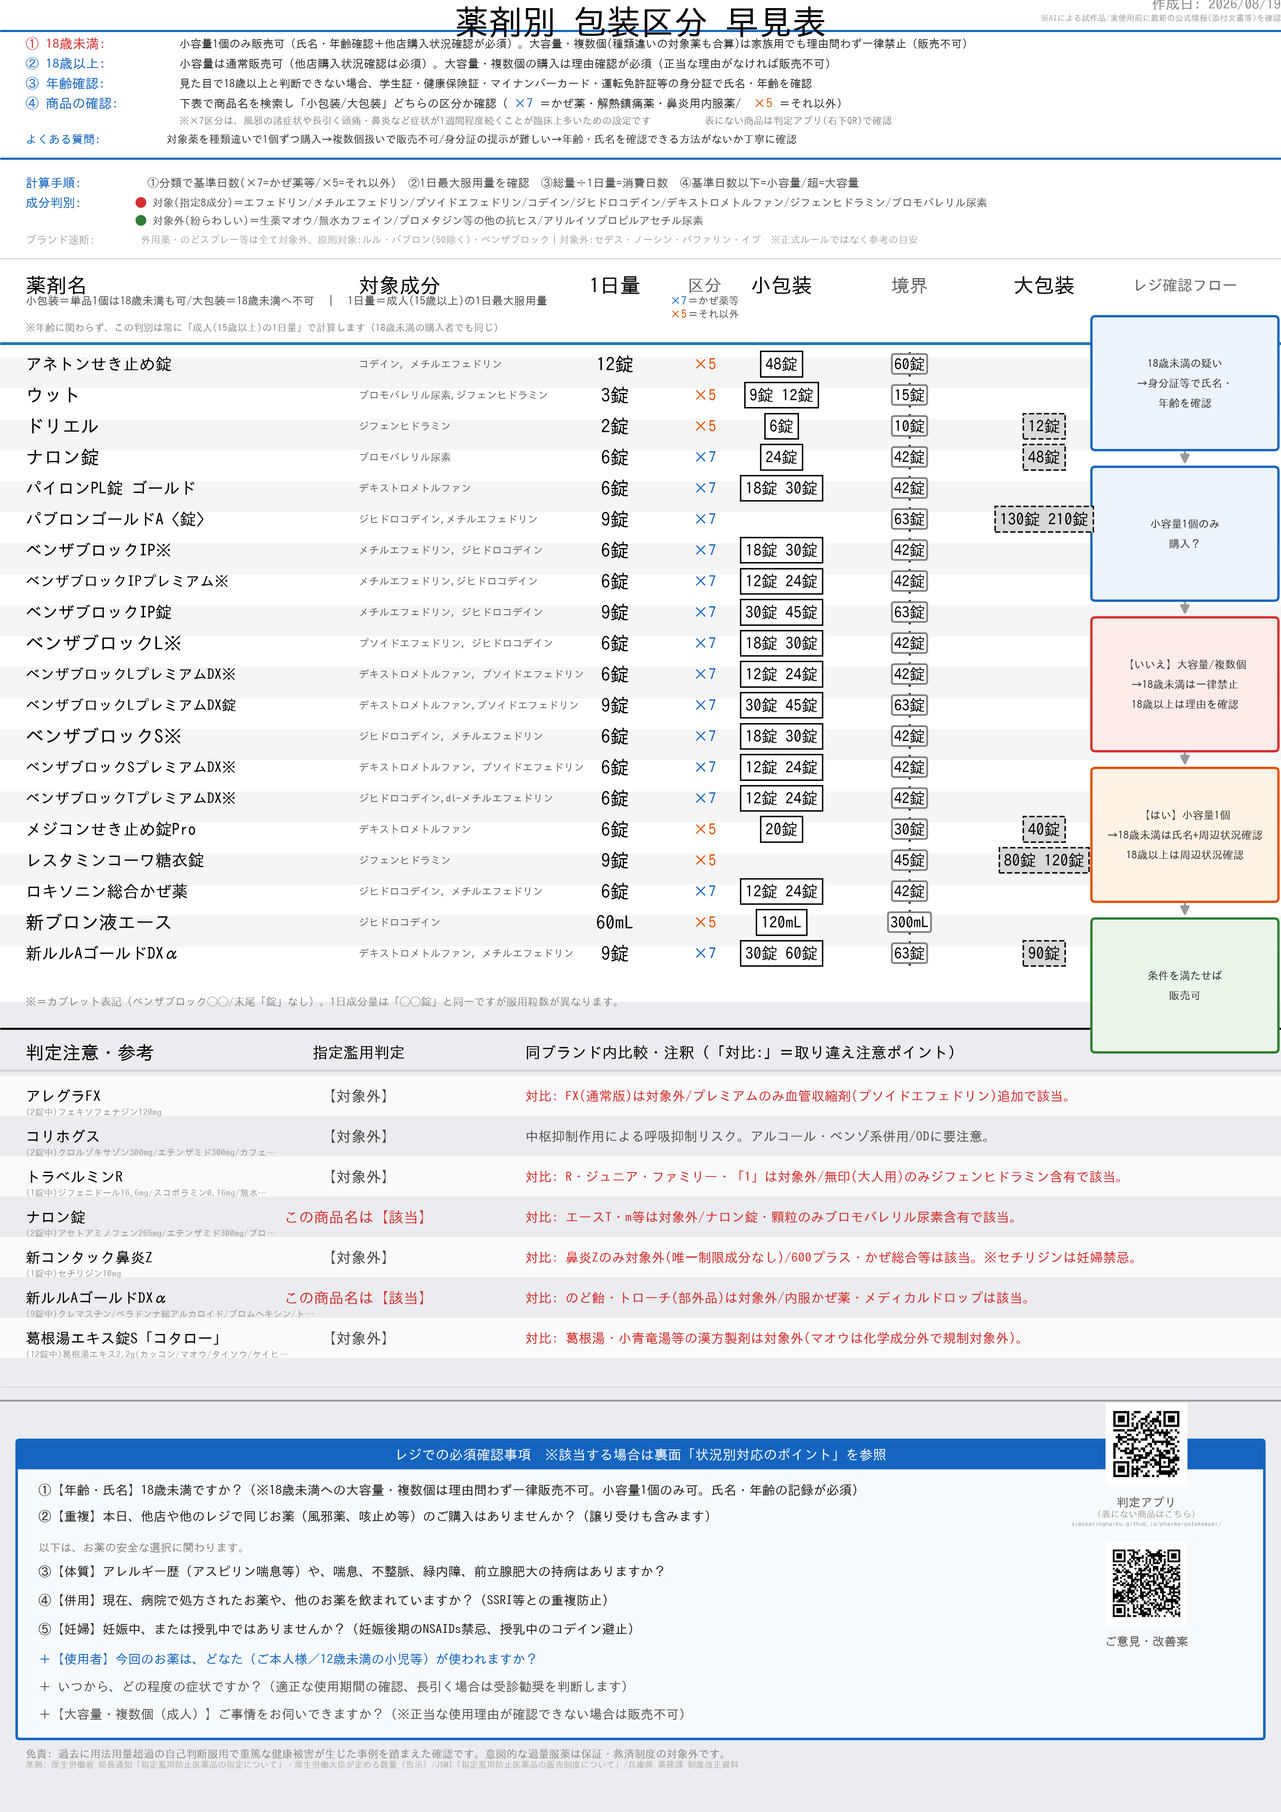
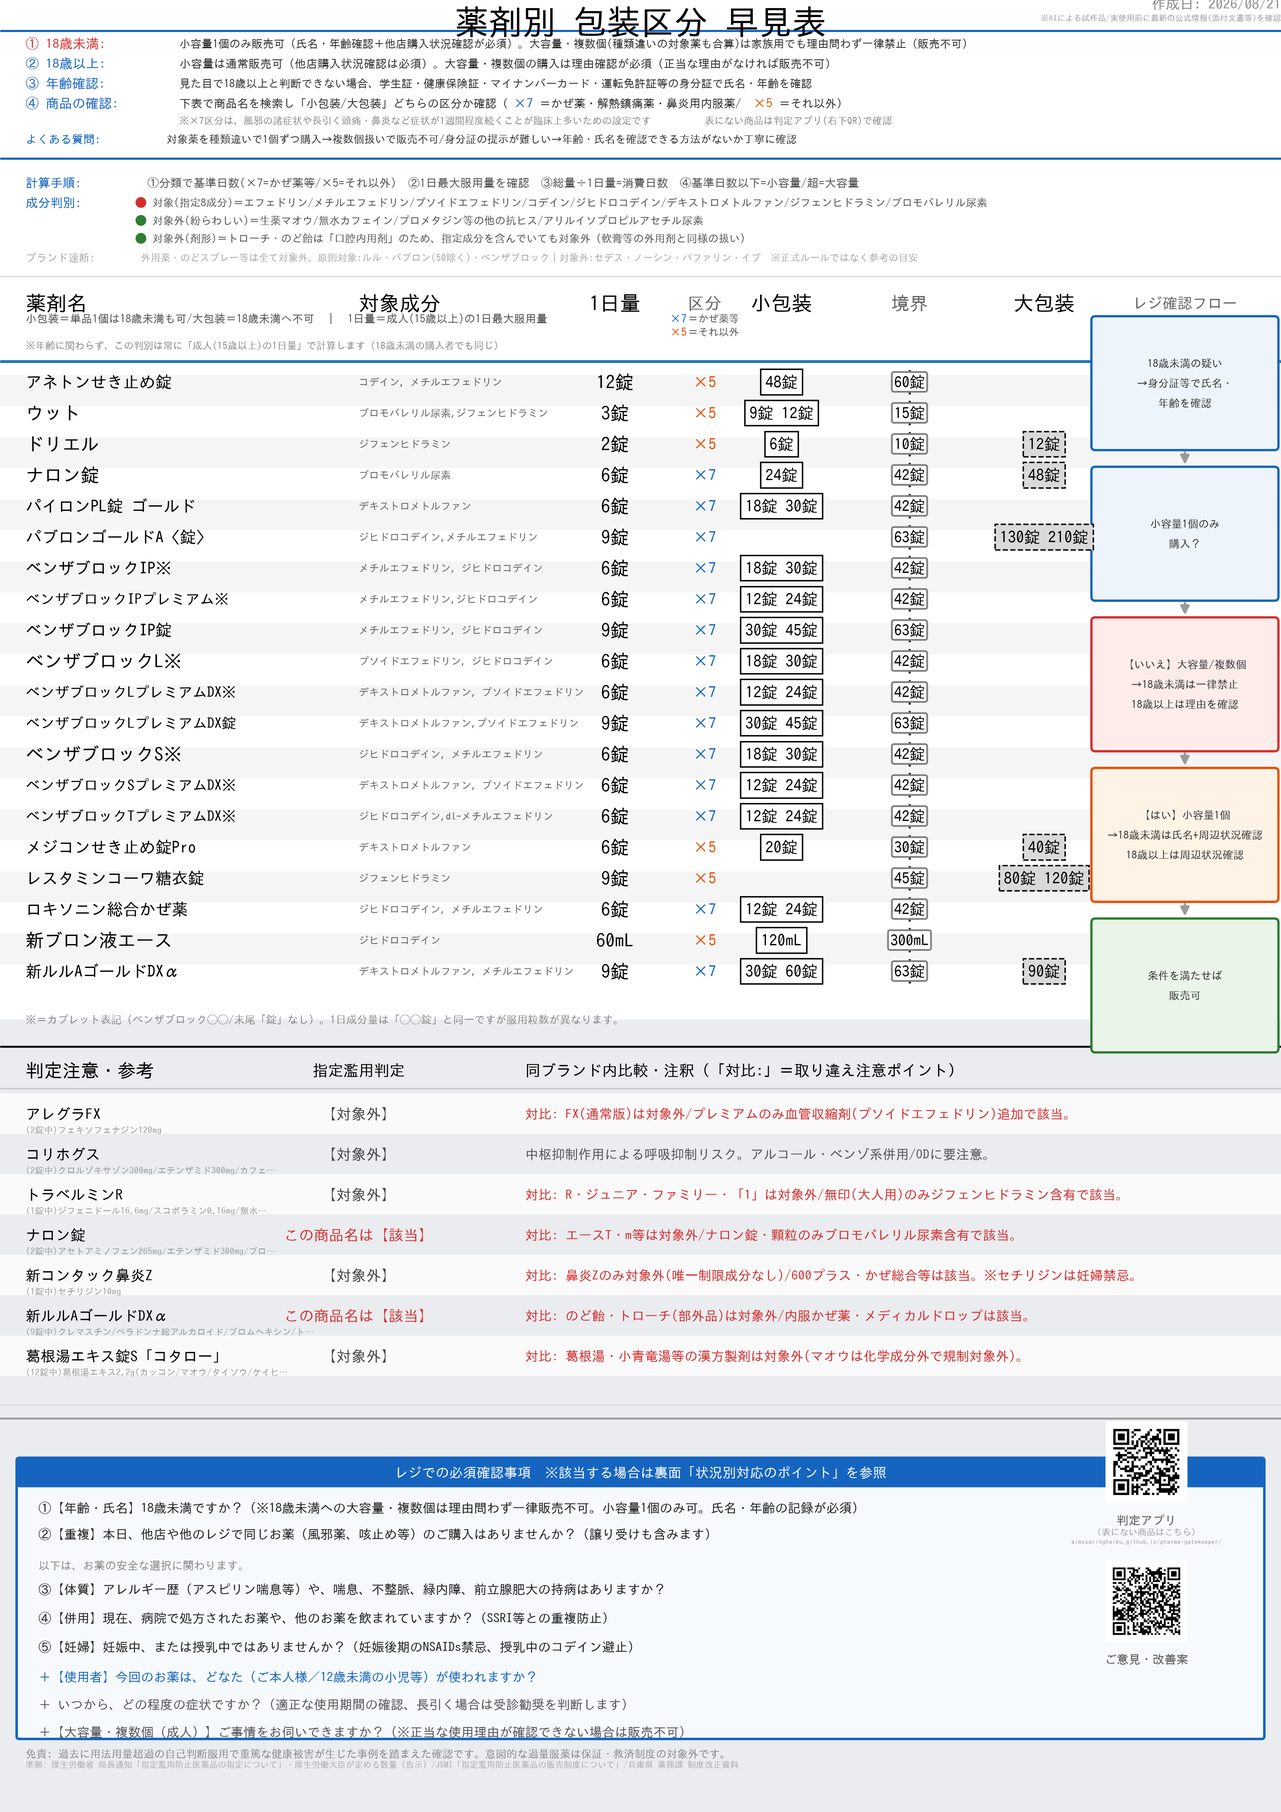
重大: トローチ・のど飴は口腔内用剤のため指定濫用対象外と全ファイルで統一
判定アプリ(index.html)および元データ(data.csv, data_updated.csv,
package_verification.csv, Dify連携.csv)に「トローチは対象、のどスプレーは
対象外」という誤った記述が残っていた。実際はトローチ・のど飴ともに
「口腔内用剤」に分類され、指定成分を含んでいても対象外。

- index.html: 大原則の説明文に一文追加、ブランド類推・ベンザブロック商品note
  内の誤った記述を修正
- data.csv / data_updated.csv / package_verification.csv / Dify連携.csv:
  同様の誤記述を修正（提出用_指定濫用マスタ.csvは既に修正済みだったため
  それに合わせて統一）
- vpc_v11_front.py: 成分判別セクションに「対象外(剤形)」の一文を追加
- vpc_v11_back.py: ※外用薬・アンナカのケースに同様の一文を追加

diff --git a/index.html b/index.html
@@ -579,12 +579,13 @@
                 <div class="manual-content">
                     <strong>■ 大原則</strong><br>
                     ・<strong>外用薬（のどスプレー、湿布、軟膏等）はすべて濫用防止の対象外</strong>です。<br>
+                    ・<strong>トローチ・のど飴は「口腔内用剤」に分類され、指定成分（デキストロメトルファン等）を含んでいても濫用防止の対象外</strong>です。<br>
                     <span
                         style="font-size:12.5px; color:#555;">※補足：抗ヒスタミン薬における指定成分の該当は「ジフェンヒドラミンのみ」です。((なお、今回の制度とは少し話がそれますが、比較的最近の「内服の第二世代抗ﾋｽ」は受診遅延回避･正確な診断の必要から「皮膚適応を持ちません」が、少し前の時期に適応取得した「ムヒAZ錠」などは､第二世代抗ﾋｽの中では珍しく皮膚適応を持ちます｡))</span><br><br>
 
                     <strong>■ ブランドからの類推（代表例）</strong><br>
                     ・<span class="tag-red">原則すべて対象：</span>
-                    ルル、パブロン、ベンザブロック（※パブロンの大人向け（15才以上）の風邪薬・せき止め薬において、指定乱用成分非含有は麦門冬湯ﾍﾞｰｽの「パブロン50」のみ/ベンザブロックはYASUMO･ﾄﾛｰﾁも対象､対象外はのどｽﾌﾟﾚｰ）<br>
+                    ルル、パブロン、ベンザブロック（※パブロンの大人向け（15才以上）の風邪薬・せき止め薬において、指定乱用成分非含有は麦門冬湯ﾍﾞｰｽの「パブロン50」のみ/ベンザブロックはYASUMOも対象、ﾄﾛｰﾁは口腔内用剤のため対象外（のどｽﾌﾟﾚｰも対象外））<br>
                     ・<span class="tag-red">対象：</span> エースがつかないナロン、パイロンPL錠ゴールド、パイロン溶かしてのむかぜ薬<br>
                     ・<span class="tag-green">すべて対象外：</span> セデス、ノーシン、バファリン、イブ<br><br>
 
@@ -963,7 +964,7 @@
     "categoryLimit": 7,
     "kubun": "〇",
     "overview": "イブプロフェンの解熱鎮痛作用により、かぜによる発熱・悪寒・頭痛・のどの痛み・関節の痛みを緩和します。6種の成分がバランスよくはたらき、かぜの様々な症状を緩和。柑橘類などに含まれるビタミンPの一種であるヘスペリジンを配合。のみやすい小型の白色～帯黄白色のカプレットタイプの錠剤です。",
-    "note": "ベンザブロック命名規則：カプレット=6T/日、円形錠(名称最後に”錠”)=9T/日、全シリーズで統一(「無印」「プレミアムDX」共通)\n        「L・IP・S」/「L・IP・S」錠/「L・IP・S・T」プレミアムDX/「L・IP・S・T」プレミアムDX錠\n　　        「YASUMO/せき止め液1回量のみ切りタイプ/せき止め錠/トローチ」も指定濫用該当(ﾄﾛｰﾁは対象､のどｽﾌﾟﾚｰは対象外)",
+    "note": "ベンザブロック命名規則：カプレット=6T/日、円形錠(名称最後に”錠”)=9T/日、全シリーズで統一(「無印」「プレミアムDX」共通)\n        「L・IP・S」/「L・IP・S」錠/「L・IP・S・T」プレミアムDX/「L・IP・S・T」プレミアムDX錠\n　　        「YASUMO/せき止め液1回量のみ切りタイプ/せき止め錠」も指定濫用該当(ﾄﾛｰﾁ・のど飴は口腔内用剤のため対象外､のどｽﾌﾟﾚｰも対象外)",
     "alternative": "【現場_代替薬提案】<br>ベンザブロックIPは、イブプロフェン、抗ヒスタミン薬、鎮咳去痰薬、交感神経刺激薬など複数の成分を配合しており、様々な症状に対応できますが、その分、特定の患者層には使用が推奨されません。<br>・<b>妊婦・授乳婦</b>：イブプロフェン、クロルフェニラミン、dl-メチルエフェドリン、ジヒドロコデインは妊娠中・授乳中に推奨されません。解熱鎮痛にはアセトアミノフェン単剤、鼻症状には点鼻薬や比較的安全とされる第二世代抗ヒスタミン薬（医師・薬剤師に要相談）、咳にははちみつや麦芽糖を検討してください。<br>・<b>運転者</b>：クロルフェニラミンとジヒドロコデインによる眠気のリスクが高いため、運転・機械操作をされる方には、眠気を催さない成分（例：解熱鎮痛はイブプロフェン単剤、鼻症状はプソイドエフェドリンを含まない点鼻薬や第二世代抗ヒスタミン薬）への切り替えを提案してください。<br>・<b>基礎疾患（高血圧、心疾患、糖尿病、緑内障、前立腺肥大症、消化性潰瘍など）</b>：dl-メチルエフェドリン、イブプロフェン、クロルフェニラミン、ジヒドロコデインはこれらの疾患を悪化させる可能性があります。基礎疾患を持つ患者には、症状に応じた単一成分製剤や、より安全性の高い代替薬（例：解熱鎮痛はアセトアミノフェン、鼻症状は点鼻薬）を検討し、必要に応じて医師への受診勧奨を行ってください。",
     "dosage_real": "成人1日最大服用量: 6",
     "現場_運転目安補足": "【現場_服薬指導エビデンス】<br>・<b>妊婦・授乳婦</b>：<br> ・<b>イブプロフェン</b>：妊娠後期（28週以降）は胎児の動脈管収縮・閉鎖、腎機能障害のリスクがあるため禁忌です。妊娠初期・中期は治療上の有益性が危険性を上回る場合のみ慎重に検討されます。成育医療センターの評価では、妊娠初期・中期はL2、妊娠後期はL3-L4相当（禁忌）。授乳婦はL2であり、短期間の使用であれば比較的安全とされますが、乳児への影響を考慮し慎重に判断します。<br> ・<b>クロルフェニラミンマレイン酸塩</b>：妊婦には原則禁忌または慎重投与とされます。催奇形性は否定的ですが、妊娠後期に服用すると新生児に影響（神経過敏、振戦、痙攣など）の可能性が報告されています。成育医療センターの評価ではL2-L3相当。授乳婦はL3であり、乳汁移行により乳児に眠気や興奮、また母体の乳汁分泌抑制の可能性があります。服用中は授乳を避けるか、代替薬を検討すべきです。<br> ・<b>dl-メチルエフェドリン塩酸塩</b>：妊婦には原則禁忌または慎重投与とされます。胎児への血管収縮作用や子宮収縮作用の可能性が懸念されます。成育医療センターの評価ではL3相当。授乳婦はL3であり、乳汁移行により乳児に興奮や不眠、心血管系への影響の可能性があります。服用中は授乳を避けるか、代替薬を検討すべきです。<br> ・<b>ジヒドロコデインリン酸塩</b>：妊婦には原則禁忌とされます。胎児への呼吸抑制、新生児禁断症状のリスクがあります。成育医療センターの評価ではL3-L4相当。授乳婦はL4であり、乳汁移行により乳児の呼吸抑制や鎮静のリスクがあるため禁忌です。特にCYP2D6の超高速代謝者では、乳児へのモルヒネ移行量が増加し、重篤な副作用を引き起こす可能性があります。<br> ・<b>無水カフェイン</b>：妊婦は過剰摂取を避けるべきです。成育医療センターの評価ではL2-L3相当。授乳婦はL2であり、乳汁移行により乳児が興奮したり、不眠になる可能性がありますが、通常量であれば問題ないことが多いとされます。ただし、乳児の様子を注意深く観察し、過敏な反応が見られた場合は中止を検討します。<br> ・<b>ヘスペリジン</b>：一般的に食品成分であり、医薬品としての妊婦・授乳婦への安全性に関する十分なデータは限定的です。明確な成育L分類やTGA分類の記載は多くありませんが、通常の使用量であれば大きな懸念は少ないと考えられます。しかし、医薬品として配合されているため、慎重な判断が求められます。<br>・<b>運転・操作</b>：<br> ・<b>イブプロフェン</b>：眠気は比較的少ないですが、めまいや視覚障害などの副作用が報告されており、服用後の運転・機械操作には注意が必要です。<br> ・<b>クロルフェニラミンマレイン酸塩</b>：強い眠気、集中力低下、めまい、ふらつきなどを引き起こす可能性が高いため、服用中は自動車の運転や機械の操作を絶対に避けるよう指導してください。<br> ・<b>dl-メチルエフェドリン塩酸塩</b>：興奮、不眠、めまい、動悸などを起こす可能性があるため、服用後の運転・機械操作には注意が必要です。<br> ・<b>ジヒドロコデインリン酸塩</b>：強い眠気、集中力低下、めまい、ふらつきなどを引き起こす可能性が高いため、服用中は自動車の運転や機械の操作を絶対に避けるよう指導してください。<br> ・<b>無水カフェイン</b>：通常量では眠気軽減効果が期待されますが、過剰摂取や感受性の高い方では神経過敏、めまい、動悸などを引き起こす可能性があり、注意が必要です。<br> ・<b>ヘスペリジン</b>：運転・機械操作に影響を与えるという報告は特にありません。<br>・<b>禁忌・受診勧奨</b>：<br> ・<b>イブプロフェン</b>：消化性潰瘍、重篤な血液の異常、肝・腎機能障害、心機能不全、アスピリン喘息の既往歴がある患者、妊娠後期は禁忌です。これらの既往がある場合は服用を避けるよう指導し、医師への受診を勧奨してください。<br> ・<b>クロルフェニラミンマレイン酸塩</b>：緑内障、前立腺肥大症、甲状腺機能亢進症、てんかん、喘息発作中、重篤な心疾患のある患者は禁忌または慎重投与です。服用前にこれらの疾患の有無を確認し、該当する場合は医師への受診を勧奨してください。<br> ・<b>dl-メチルエフェドリン塩酸塩</b>：高血圧症、心疾患、甲状腺機能亢進症、糖尿病、緑内障、前立腺肥大症のある患者は禁忌または慎重投与です。また、MAO阻害薬を服用している患者も禁忌です。これらの既往がある場合は服用を避けるよう指導し、医師への受診を勧奨してください。<br> ・<b>ジヒドロコデインリン酸塩</b>：12歳未満の小児、重篤な呼吸抑制のある患者、喘息発作中、頭部外傷や脳腫瘍、アルコール中毒、痙攣状態の患者は禁忌です。また、MAO阻害薬を服用している患者も禁忌です。これらの既往がある場合は服用を避けるよう指導し、医師への受診を勧奨してください。<br> ・<b>無水カフェイン</b>：心疾患、胃潰瘍、緑内障、てんかんのある患者は慎重投与です。これらの既往がある場合は服用前に医師・薬剤師に相談するよう指導してください。<br> ・<b>ヘスペリジン</b>：特筆すべき禁忌や受診勧奨事項はありませんが、他の成分との兼ね合いで注意が必要です。<br>・<b>相互作用</b>：<br> ・<b>イブプロフェン</b>：ワルファリン等の抗凝固薬、メトトレキサート、リチウム製剤、ACE阻害薬、アンジオテンシンII受容体拮抗薬（ARB）、利尿薬、SSRI（選択的セロトニン再取り込み阻害薬）との併用で、それぞれの薬剤の効果増強や副作用（消化管出血リスク増大、腎機能障害など）のリスクが高まります。併用薬を確認し、注意を促してください。<br> ・<b>クロルフェニラミンマレイン酸塩</b>：アルコール、中枢神経抑制剤（鎮静作用、眠気増強）、MAO阻害薬（抗コリン作用増強）との併用は避けるべきです。併用薬や飲酒習慣を確認してください。<br> ・<b>dl-メチルエフェドリン塩酸塩</b>：MAO阻害薬（高血圧クリーゼのリスク）、甲状腺ホルモン剤、カテコールアミン製剤、昇圧アミンとの併用は避けるべきです。併用薬を確認し、注意を促してください。<br> ・<b>ジヒドロコデインリン酸塩</b>：アルコール、中枢神経抑制剤（鎮静作用、呼吸抑制増強）、MAO阻害薬（セロトニン症候群、呼吸抑制のリスク）との併用は避けるべきです。併用薬や飲酒習慣を確認してください。<br> ・<b>無水カフェイン</b>：MAO阻害薬（興奮作用増強）、シメチジンや経口避妊薬（カフェインの代謝阻害による作用増強）、エフェドリンなどの交感神経刺激薬（中枢刺激作用増強）との併用は注意が必要です。他のカフェイン含有飲料・食品の摂取量も確認してください。<br> ・<b>ヘスペリジン</b>：特筆すべき重要な相互作用は報告されていません。<br>・<b>濫用・MOH</b>：<br> ・<b>イブプロフェン</b>：NSAIDsの過剰摂取により薬剤乱用頭痛（MOH: Medication Overuse Headache）を引き起こすリスクがあります。漫然とした長期連用は避けるよう指導してください。<br> ・<b>クロルフェニラミンマレイン酸塩</b>：乱用リスクは低いですが、大量摂取により中枢神経系の副作用（幻覚、興奮など）が生じる可能性があります。<br> ・<b>dl-メチルエフェドリン塩酸塩</b>：覚醒作用があるため、乱用される可能性（エフェドリン類似）があります。過量摂取には注意が必要です。<br> ・<b>ジヒドロコデインリン酸塩</b>：オピオイド系成分であり、依存性・乱用リスクが高いです。過量摂取や漫然とした長期連用は、身体的・精神的依存、薬剤乱用頭痛（MOH）を引き起こす可能性があります。用法・用量を厳守し、長期連用を避けるよう強く指導してください。<br> ・<b>無水カフェイン</b>：精神依存の可能性があり、過剰摂取により神経過敏、不安、不眠、動悸などの症状を引き起こすことがあります。薬剤乱用頭痛（MOH）のリスクも報告されています。<br> ・<b>ヘスペリジン</b>：乱用リスクは低いと考えられます。<br>・<b>ドーピング・毒性</b>：<br> ・<b>イブプロフェン</b>：世界アンチ・ドーピング機構（WADA）の禁止物質リストには該当しません。<br> ・<b>クロルフェニラミンマレイン酸塩</b>：WADAの禁止物質リストには該当しません。<br> ・<b>dl-メチルエフェドリン塩酸塩</b>：WADAの禁止物質リストに『特定競技期間中』の禁止物質として該当します。競技者は服用に注意が必要です。<br> ・<b>ジヒドロコデインリン酸塩</b>：WADAの禁止物質リストに『特定競技期間中』の禁止物質（麻薬）として該当します。競技者は服用に注意が必要です。<br> ・<b>無水カフェイン</b>：WADAの禁止物質リストには現在該当しません（過去には禁止物質でした）。【要確認】中毒量・致死量等の詳細はPoisindex等の一次資料を参照。<br> ・<b>ヘスペリジン</b>：WADAの禁止物質リストには該当しません。",

diff --git a/vpc_v11_front.py b/vpc_v11_front.py
@@ -224,6 +224,11 @@ marker(ax, COL_NAME_X + 9.0, current_y, GREEN, "circle", 0.42)
 ax.text(COL_NAME_X + 9.9, current_y,
         "対象外(紛らわしい)＝生薬マオウ/無水カフェイン/プロメタジン等の他の抗ヒス/アリルイソプロピルアセチル尿素",
         fontsize=5.9, ha="left", va="center", color=GRAY)
+current_y -= 1.4
+marker(ax, COL_NAME_X + 9.0, current_y, GREEN, "circle", 0.42)
+ax.text(COL_NAME_X + 9.9, current_y,
+        "対象外(剤形)＝トローチ・のど飴は「口腔内用剤」のため、指定成分を含んでいても対象外（軟膏等の外用剤と同様の扱い）",
+        fontsize=5.9, ha="left", va="center", color=GRAY)
 current_y -= 1.5
 WATERMARK_GRAY = "#a8a8a8"  # alpha合成は印刷時に消えることがあるため、不透明な淡いグレー+斜体+小フォントで「参考情報」を表現
 ax.text(COL_NAME_X, current_y, "ブランド速断:", fontsize=6.0, fontweight="bold", fontstyle="italic",

diff --git a/vpc_v11_back.py b/vpc_v11_back.py
@@ -383,6 +383,7 @@ CASES_B = [
     ]),
     ("※", "外用薬・アンナカ", "外用薬/無水カフェインの質問", [
         "▶対象外：軟膏・クリーム・目薬等の外用剤は成分含有でも規制対象外。",
+        "▶対象外：トローチ・のど飴も「口腔内用剤」のため、指定成分を含んでいても対象外。",
         "▶対象外：アンナカ(無水カフェイン)はお茶・コーヒー等にも含まれ一律規制が非現実的（危険性は認識）。",
     ]),
 ]
